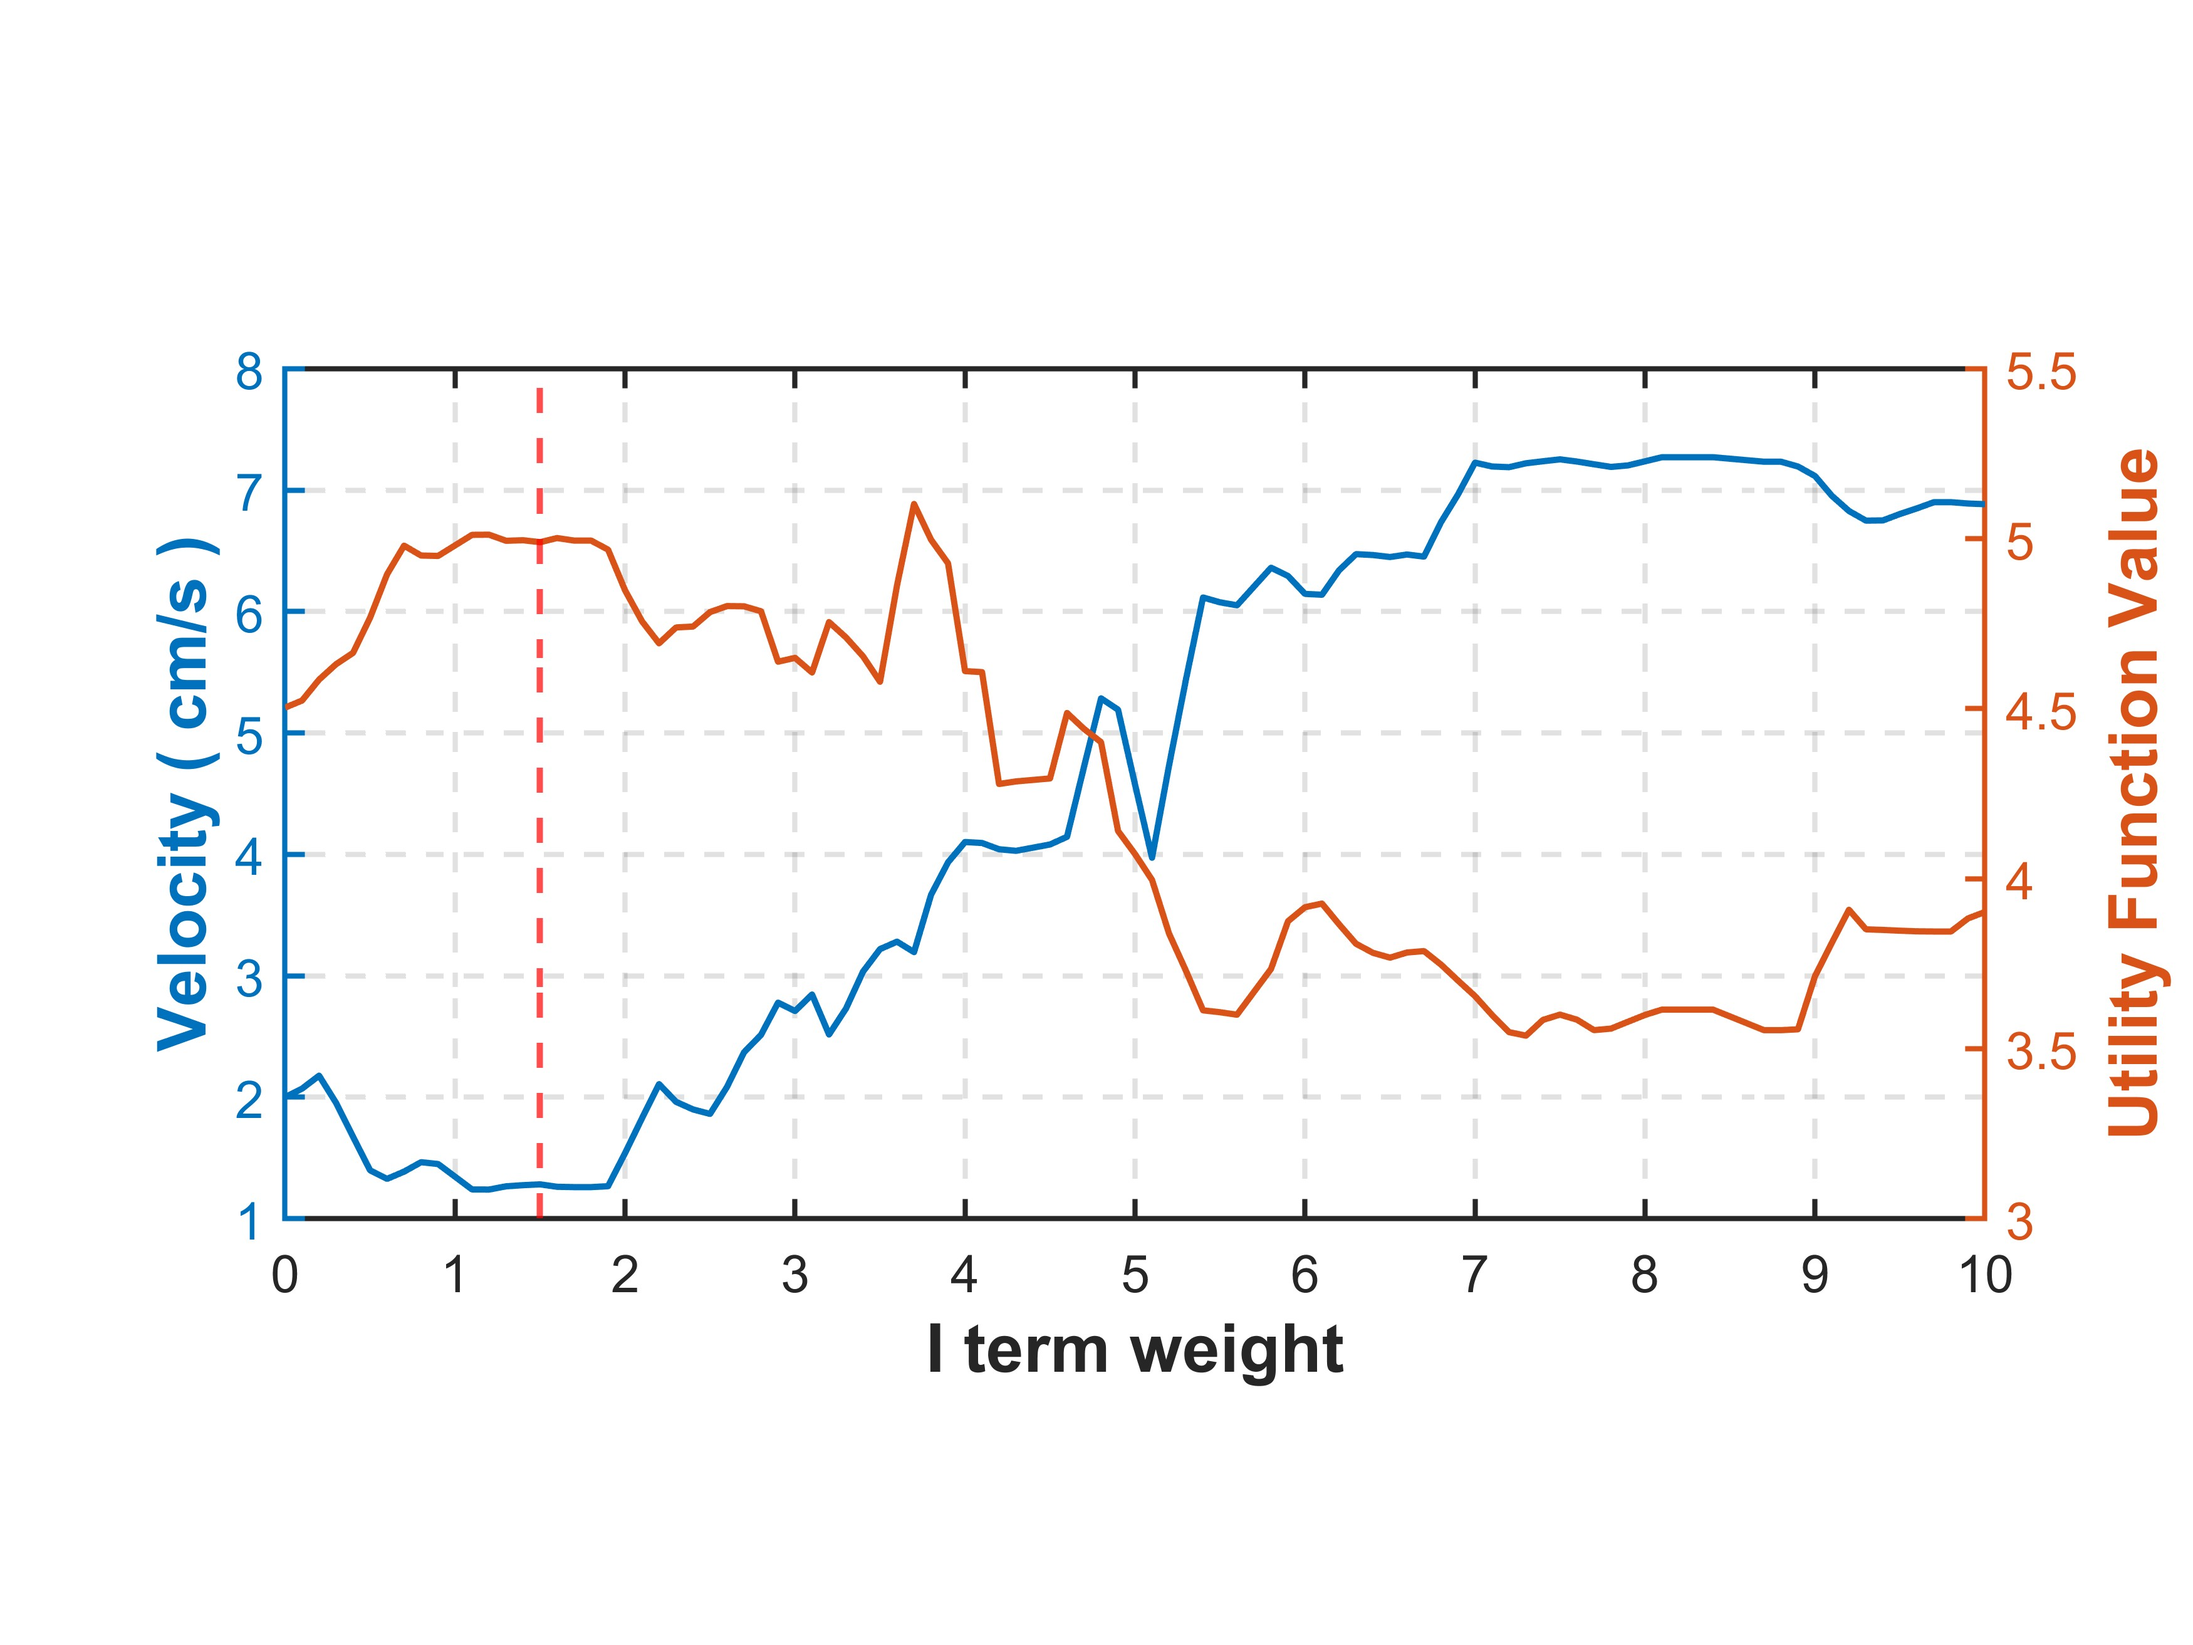
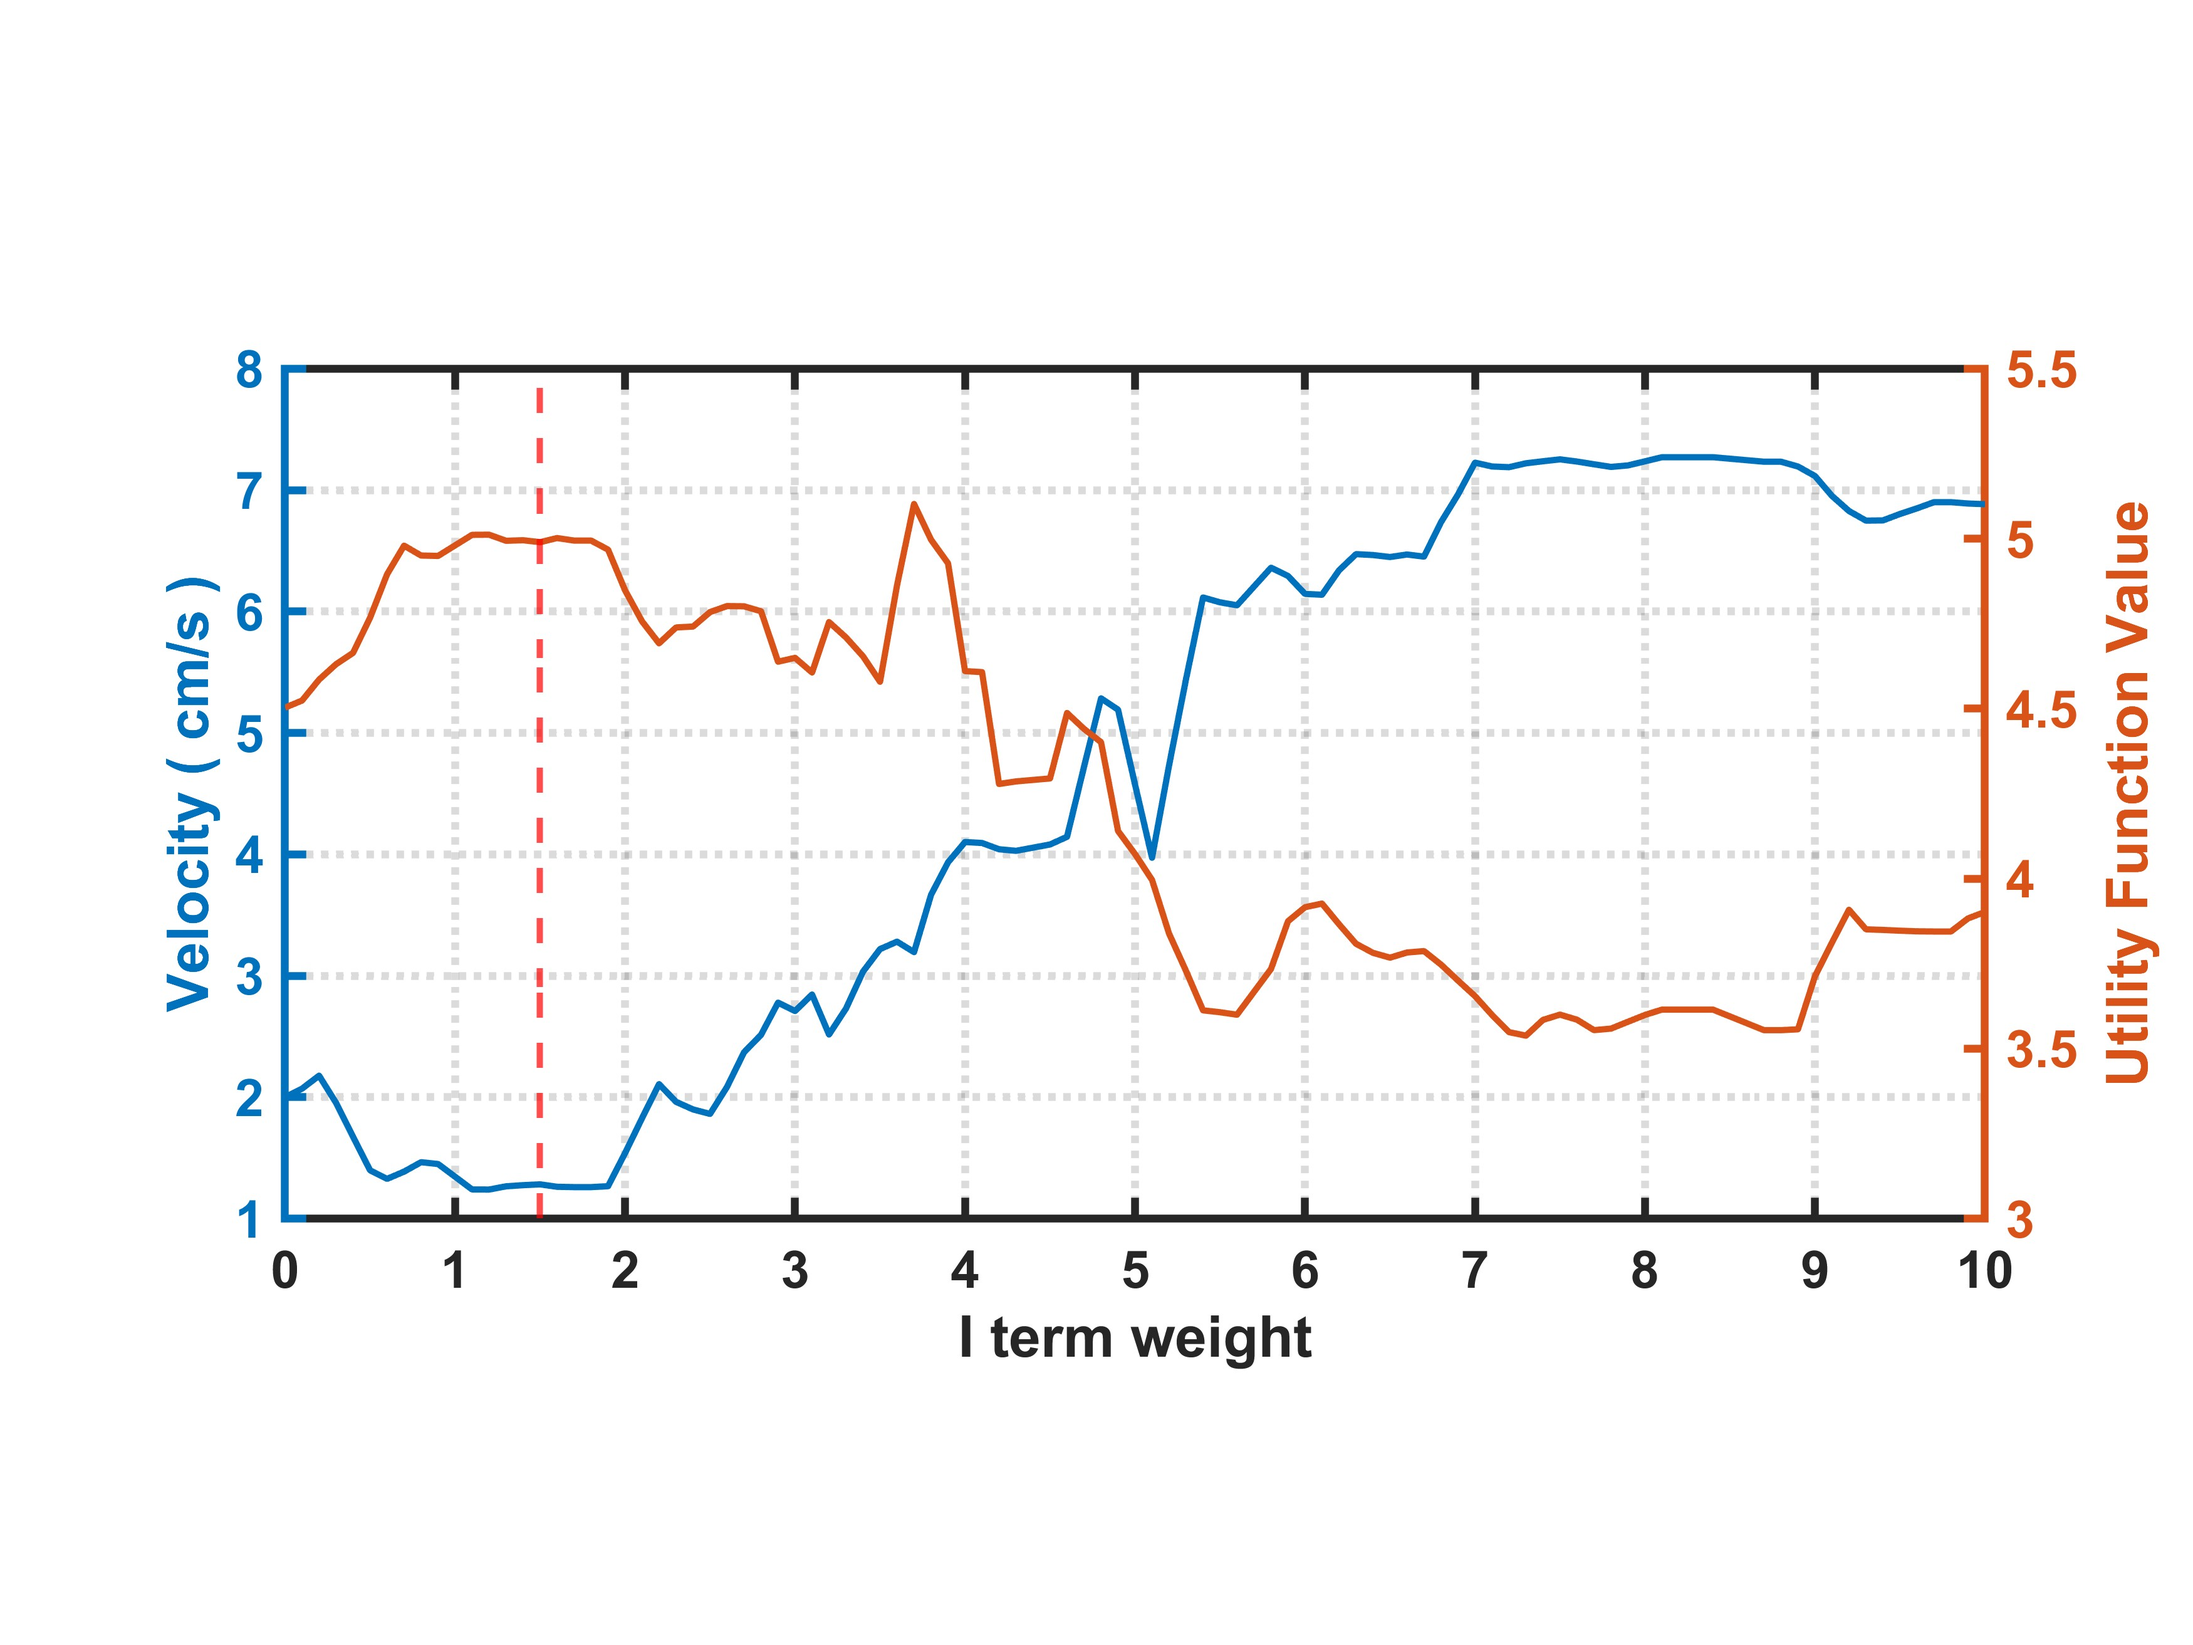
20241204 퇴근

diff --git a/GD_pos/GD_paper_rev/traj_J/20241202 IJL항 민감도 분석/J_term_plot.m b/GD_pos/GD_paper_rev/traj_J/20241202 IJL항 민감도 분석/J_term_plot.m
@@ -1,73 +1,82 @@
 clc; clear;
 %%
-% load J_hist_map2_.mat
-load J_maps.mat
+load J_maps_ordered.mat
 
-total_map = [
-    map1(101,:,:);
-    map1(94,:,:);
-    map1(93,:,:);
-    map1(87,:,:);
-    map1(86,:,:);
-    map1(85,:,:);
-    map1(84,:,:);
-    map1(80,:,:);
-    map1(78,:,:);
-    map1(75,:,:);
-    map1(73,:,:);
-    map1(70,:,:);
-    map1(64,:,:);
-    map1(61,:,:);
-    map1(57,:,:);
-    map1(50,:,:);
-    map1(49,:,:);
-    map1(47,:,:);
-    map1(43,:,:);
-    map1(41,:,:);
-    map1(40,:,:);
-    map1(36,:,:);
-    map1(35,:,:);
-    map1(34,:,:);
-    map1(33,:,:);
-    map1(32,:,:);
-    map1(31,:,:);
-    map1(29,:,:);
-    map1(28,:,:);
-    map1(27,:,:);
-    map1( 9,:,:);
-    map1( 7,:,:);
-    map1( 6,:,:);
-    map1( 5,:,:);
-    map1( 4,:,:);
-    map1( 3,:,:);
-    map1( 2,:,:);
-    map1( 1,:,:);
-    map2(78,:,:); %2 시작
-    map2(68,:,:);
-    map2(62,:,:);
-    map2(59,:,:);
-    map2(47,:,:);
-    map2(96,:,:);
-    map2(95,:,:);
-    map2(94,:,:);
-    map2(93,:,:);
-    map2(92,:,:);
-    map2(91,:,:);
-    map2(73,:,:);
-    map2(72,:,:);
-    map2(67,:,:);
-    map2(56,:,:);
-    map2( 2,:,:);
-];
+%% 안씀
+% total_map = [
+%     map1(101,:,:);
+%     map1(94,:,:);
+%     map1(93,:,:);
+%     map1(87,:,:);
+%     map1(86,:,:);
+%     map1(85,:,:);
+%     map1(84,:,:);
+%     map1(80,:,:);
+%     map1(78,:,:);
+%     map1(75,:,:);
+%     map1(73,:,:);
+%     map1(70,:,:);
+%     map1(64,:,:);
+%     map1(61,:,:);
+%     map1(57,:,:);
+%     map1(50,:,:);
+%     map1(49,:,:);
+%     map1(47,:,:);
+%     map1(43,:,:);
+%     map1(41,:,:);
+%     map1(40,:,:);
+%     map1(36,:,:);
+%     map1(35,:,:);
+%     map1(34,:,:);
+%     map1(33,:,:);
+%     map1(32,:,:);
+%     map1(31,:,:);
+%     map1(29,:,:);
+%     map1(28,:,:);
+%     map1(27,:,:);
+%     map1( 9,:,:);
+%     map1( 7,:,:);
+%     map1( 6,:,:);
+%     map1( 5,:,:);
+%     map1( 4,:,:);
+%     map1( 3,:,:);
+%     map1( 2,:,:);
+%     map1( 1,:,:);
+%     map2(78,:,:); %2 시작
+%     map2(68,:,:);
+%     map2(62,:,:);
+%     map2(59,:,:);
+%     map2(47,:,:);
+%     map2(96,:,:);
+%     map2(95,:,:);
+%     map2(94,:,:);
+%     map2(93,:,:);
+%     map2(92,:,:);
+%     map2(91,:,:);
+%     map2(73,:,:);
+%     map2(72,:,:);
+%     map2(67,:,:);
+%     map2(56,:,:);
+%     map2( 2,:,:);
+% ];
+
+% %%
+% canvas2 = zeros(500,500);
+% num_datasets = 54;
+% data_idx = 1:num_datasets;
+% 
+% for i = data_idx
+%     canvas2 = canvas2 + squeeze(total_map(i,:,:));
+% end
 %%
 canvas = zeros(500,500);
-num_datasets = 101;
+num_datasets = 54;
 data_idx = 1:num_datasets;
 for i=data_idx
-    for x=1:size(squeeze(U_result(i,:,:)),1)
-        for y=1:size(squeeze(U_result(i,:,:)),2)
+    for x=1:size(squeeze(total_map(i,:,:)),1)
+        for y=1:size(squeeze(total_map(i,:,:)),2)
 
-            if U_result(i,x,y) ~= 0
+            if total_map(i,x,y) ~= 0
                 canvas(x,y) = i;
             end
         end
@@ -75,27 +84,81 @@ for i=data_idx
 end
 
 %%
-canvas2 = zeros(500,500);
-num_datasets = 54;
-data_idx = 1:num_datasets;
+x_ticks = 1:1:500;
+x_ticks = (x_ticks - 250) / 300;
 
-for i = data_idx
-    canvas2 = canvas2 + squeeze(U_result(i,:,:));
-end
 
-%%
-mycolor = jet(17);
+canvas_t = transpose(canvas);
+
 figure;
-
-s = pcolor(canvas2);
+s = pcolor(canvas_t);
 s.EdgeColor = 'none';
 
-xlabel("I term weight","FontSize",13,"FontName","arial","FontWeight","bold");
+colormap("pink");
+cb = colorbar;
+cb.Ticks = linspace(0, 54, 10);
+tmp_tick = round((linspace(0, 54, 10) * (1/27)), 1);
+cb.TickLabels = round((linspace(0, 54, 10) * (1/27)), 1);
+cb.Label.String = "J term weight";
+cb.Label.FontSize = 10;
+% cb.AxisLocation ="in";
+% cb.Location = "west";
+% cb.Color = [0.8 0.8 0.8];
 
-xlim([1 500]);
-ylim([1 500]);
+xlabel("X (m)","FontSize",13,"FontName","arial","FontWeight","bold");
+ylabel("Y (m)","FontSize",13,"FontName","arial","FontWeight","bold");
 
-pbaspect([1 1 1])
+xlim([200 500]);
+ylim([(220 - 125) (220 + 125)]);
+
+ttick = [1 50:50:500];
+ttick_label = linspace(-1.5,1.5,11);
+ttick_label = round(ttick_label,2);
+
+xticks(ttick);
+yticks(ttick);
+xticklabels(ttick_label);
+yticklabels(ttick_label);
+
+hold on;
+
+x1 = xline(200, LineWidth=0.75, LineStyle="--", Color=[0.8 0.8 0.8]);
+x2 = xline(250, LineWidth=1.5, LineStyle="-", Color=[0.8 0.8 0.8]);
+x3 = xline(300, LineWidth=0.75, LineStyle="--", Color=[0.8 0.8 0.8]);
+x4 = xline(350, LineWidth=0.75, LineStyle="--", Color=[0.8 0.8 0.8]);
+x5 = xline(400, LineWidth=0.75, LineStyle="--", Color=[0.8 0.8 0.8]);
+x6 = xline(450, LineWidth=0.75, LineStyle="--", Color=[0.8 0.8 0.8]);
+
+x1.Alpha = 0.3;
+x2.Alpha = 0.5;
+x3.Alpha = 0.3;
+x4.Alpha = 0.3;
+x5.Alpha = 0.3;
+x6.Alpha = 0.3;
+
+y1 = yline(100, LineWidth=0.75, LineStyle="--", Color=[0.8 0.8 0.8]);
+y2 = yline(150, LineWidth=0.75, LineStyle="--", Color=[0.8 0.8 0.8]);
+y3 = yline(200, LineWidth=0.75, LineStyle="--", Color=[0.8 0.8 0.8]);
+y4 = yline(250, LineWidth=1.5, LineStyle="-", Color=[0.8 0.8 0.8]);
+y5 = yline(300, LineWidth=0.75, LineStyle="--", Color=[0.8 0.8 0.8]);
+y6 = yline(350, LineWidth=0.75, LineStyle="--", Color=[0.8 0.8 0.8]);
+
+y1.Alpha = 0.3;
+y2.Alpha = 0.3;
+y3.Alpha = 0.3;
+y4.Alpha = 0.5;
+y5.Alpha = 0.3;
+y6.Alpha = 0.3;
+
+ax = gca; %let user change axis setting
+ax.FontSize = 10; %axis fontsize 
+ax.LineWidth = 1.5; ax.FontWeight="bold"; %axis linewidth and Fontweight
+ax.GridLineStyle = ':';
+ax.GridLineWidth = 1.5;
+ax.GridColor='#101010';
+ax.Color=[0.85 0.85 0.85];
+fontname(gcf,"Arial") 
+pbaspect([300 250 1])
 
 %%
 for i = data_idx

diff --git a/GD_pos/GD_paper_rev/traj_J/20241202 IJL항 민감도 분석/L_term_plot.m b/GD_pos/GD_paper_rev/traj_J/20241202 IJL항 민감도 분석/L_term_plot.m
@@ -1,0 +1,68 @@
+clc; clear
+
+%%
+load L_ori_map_.mat
+smooth_U = movmean(U_result,5);
+
+x_min = min(smooth_U(:,1));
+x_max = max(smooth_U(:,1));
+
+y_min = min(smooth_U(:,2));
+y_max = max(smooth_U(:,2));
+
+z_min = min(smooth_U(:,3));
+z_max = max(smooth_U(:,3));
+
+%%
+numInterp = 300;
+t = 1:101;
+tInterp = linspace(1, 101, numInterp);
+
+xInterp = interp1(t, smooth_U(:,1), tInterp, "spline");
+yInterp = interp1(t, smooth_U(:,2), tInterp, "spline");
+zInterp = interp1(t, smooth_U(:,3), tInterp, "spline");
+
+%%
+C = 1:1:300;
+
+%%
+xInterp = (180/pi) * xInterp;
+yInterp = (180/pi) * yInterp;
+zInterp = (180/pi) * zInterp;
+
+figure;
+scatter3(xInterp, yInterp, zInterp, 36, C, "filled","o","MarkerEdgeColor",'k','LineWidth',0.1);
+colormap(pink)
+
+hold on;
+
+xlabel("X axis orientation");
+ylabel("Y axis orientation");
+zlabel("Z axis orientation");
+
+ax = gca; %let user change axis setting
+ax.FontSize = 10; %axis fontsize 
+ax.LineWidth = 1.5; ax.FontWeight="bold"; %axis linewidth and Fontweight
+ax.GridLineStyle = '-';
+ax.GridLineWidth = 1.0;
+ax.GridColor=[0.8 0.8 0.8];
+ax.Color=[0.3 0.3 0.3];
+fontname(gcf,"Arial") 
+% pbaspect([1 1 1])
+axis equal;
+
+% 축 범위를 설정하여 정육면체 보장
+xRange = [min(xInterp), max(xInterp)];
+yRange = [min(yInterp), max(yInterp)];
+zRange = [min(zInterp), max(zInterp)];
+maxRange = max([diff(xRange), diff(yRange), diff(zRange)]); % 최대 범위
+centerX = mean(xRange);
+centerY = mean(yRange);
+centerZ = mean(zRange);
+
+% 동일한 범위 설정
+xlim([centerX - maxRange/2, centerX + maxRange/2]);
+ylim([centerY - maxRange/2, centerY + maxRange/2]);
+zlim([centerZ - maxRange/2, centerZ + maxRange/2]);
+
+view(0,90);

diff --git a/GD_pos/GD_paper_rev/traj_J/20241202 IJL항 민감도 분석/I_term_plot.m b/GD_pos/GD_paper_rev/traj_J/20241202 IJL항 민감도 분석/I_term_plot.m
@@ -36,4 +36,13 @@ xticks(0:1:10);
 xline(1.5,LineWidth=1.2,LineStyle="--",Color='r')
 
 % ylim([3 5.5]);
+
+ax = gca; %let user change axis setting
+ax.FontSize = 10; %axis fontsize 
+ax.LineWidth = 1.5; ax.FontWeight="bold"; %axis linewidth and Fontweight
+ax.GridLineStyle = ':';
+ax.GridLineWidth = 1.5;
+ax.GridColor='#101010';
+% ax.Color=[0.85 0.85 0.85];
+fontname(gcf,"Arial") 
 pbaspect([2 1 1])
